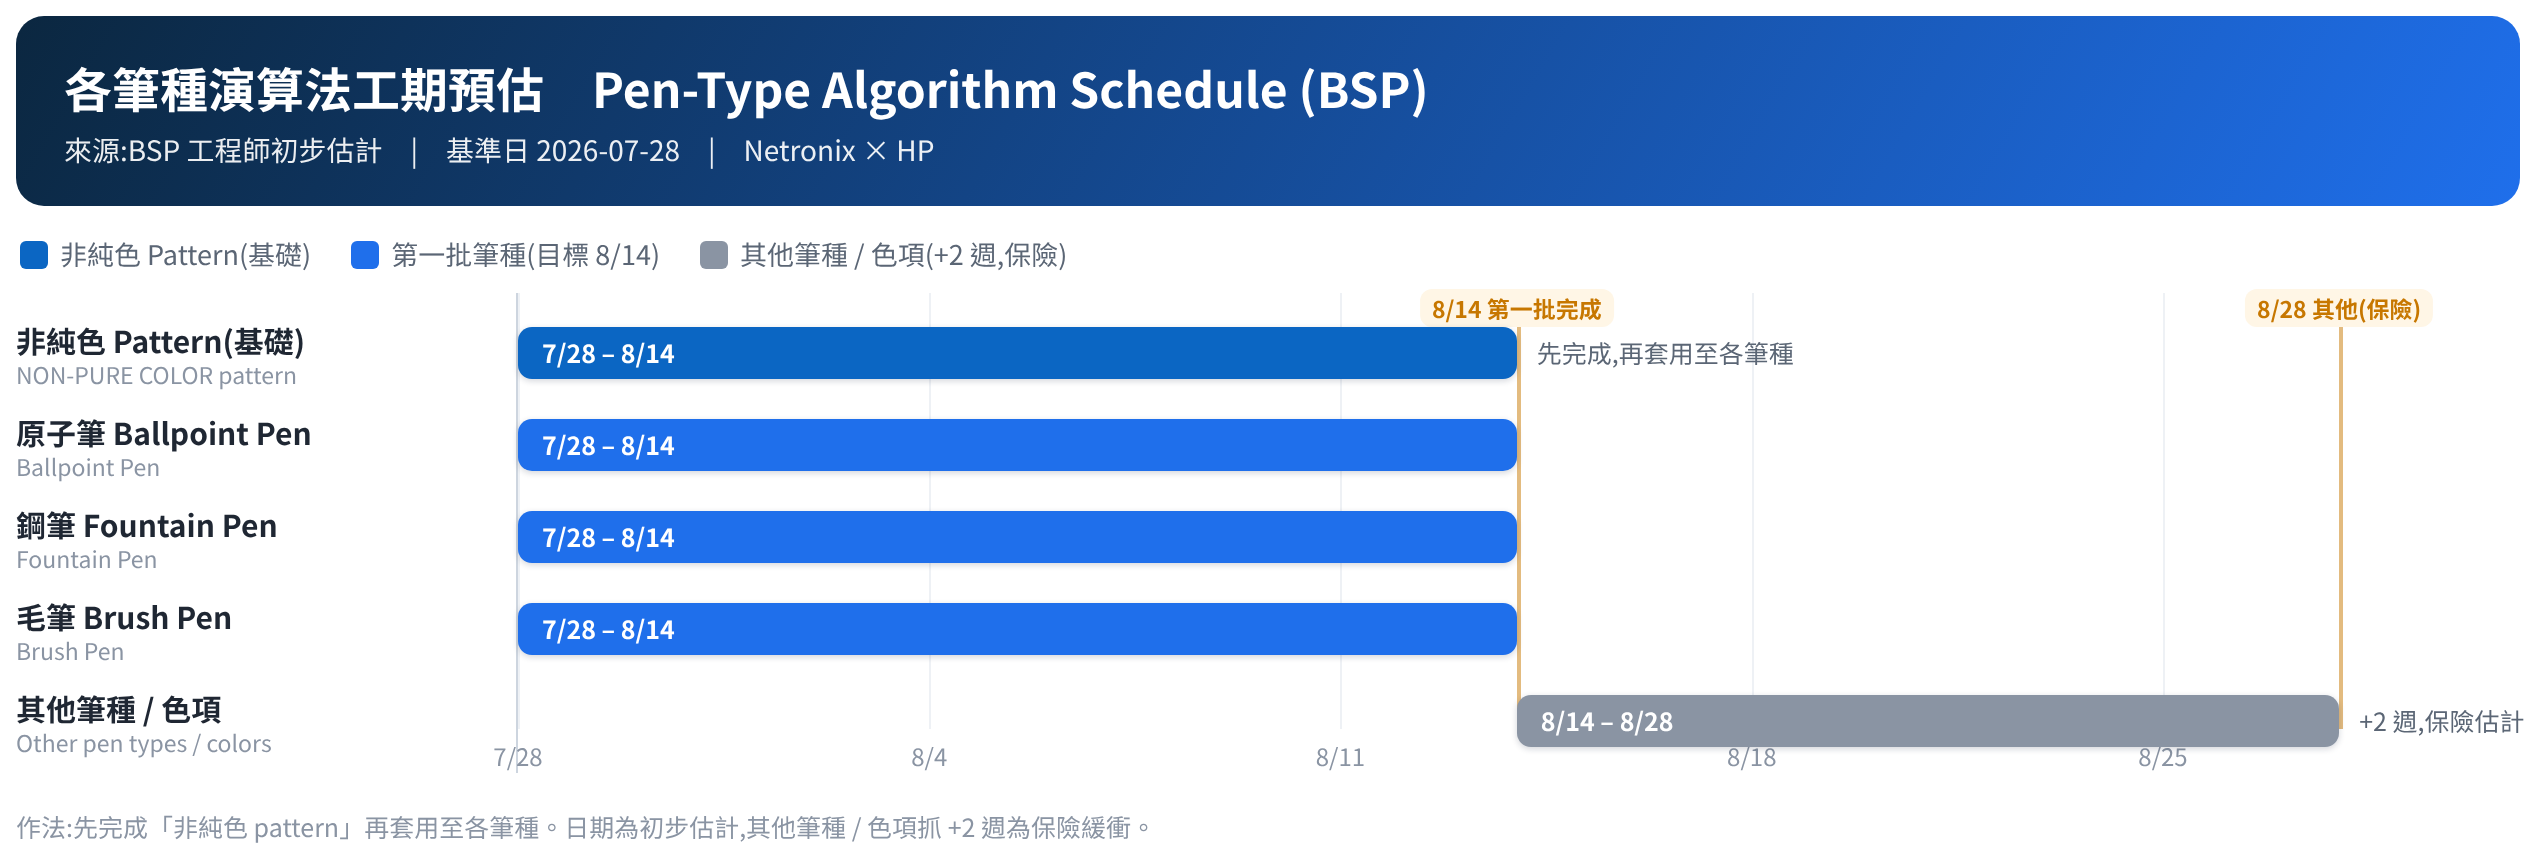
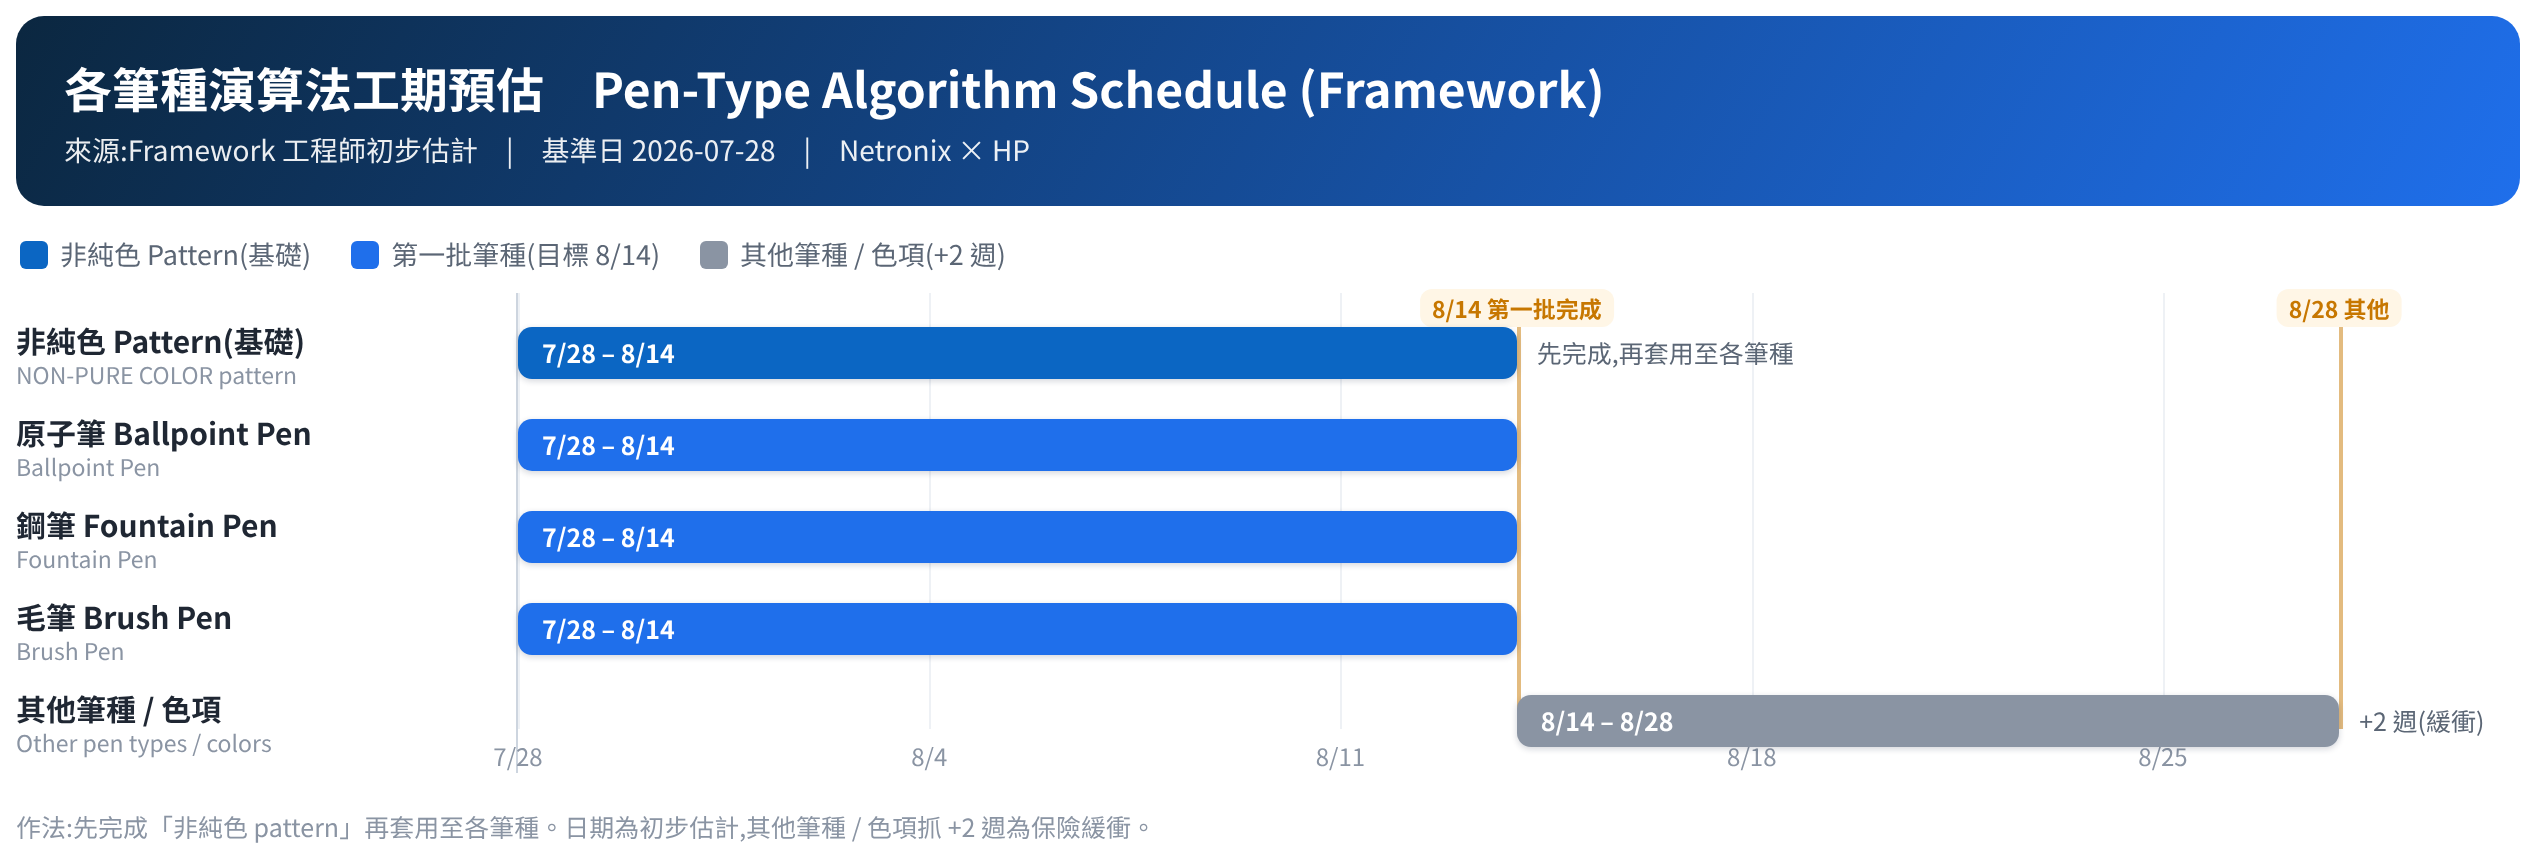
HP 0728 report: BSP->Framework, drop '保險', closeable lightbox, add source-message chat image

diff --git a/HP_HTML/HP_Daily_Report_20260728.html b/HP_HTML/HP_Daily_Report_20260728.html
@@ -45,6 +45,10 @@
   .figwrap{margin:.8em 0}
   .figwrap img{max-width:100%;height:auto;border:1px solid var(--line);border-radius:10px;cursor:zoom-in;display:block}
   .figcap{font-size:12.5px;color:var(--muted);margin-top:.35em}
+  #lb{position:fixed;inset:0;background:rgba(0,0,0,.86);display:none;align-items:center;justify-content:center;z-index:100;cursor:zoom-out}
+  #lb.open{display:flex}
+  #lb img{max-width:94vw;max-height:90vh;border-radius:8px;box-shadow:0 8px 40px rgba(0,0,0,.5)}
+  #lb .x{position:absolute;top:14px;right:22px;color:#fff;font-size:36px;line-height:1;cursor:pointer;font-weight:300;user-select:none}
   code{font-family:Consolas,"Roboto Mono",monospace;font-size:.9em;background:#eef1f5;color:#0b3d66;padding:1px 6px;border-radius:5px}
   .callout{border:1px solid var(--line);border-left:5px solid var(--accent);background:var(--accent-soft);
     padding:13px 17px;border-radius:9px;margin:.9em 0}
@@ -136,7 +140,7 @@
         <b>Netronix 決策:</b>本次<b>隱藏尚未支援的相關 UI</b>,Demo 時不展示(僅展示已完成的項目)。
       </div>
 
-      <h3>各筆種工期預估(BSP 初步估計)</h3>
+      <h3>各筆種工期預估(Framework 初步估計)</h3>
       <p class="muted">回覆 HP 詢問。作法:<b>先完成非純色 pattern,再套用至各筆種</b>。</p>
       <table class="sched">
         <thead><tr><th>項目</th><th>說明</th><th>預估完成</th></tr></thead>
@@ -145,10 +149,11 @@
           <tr><td>原子筆 Ballpoint Pen</td><td>第一批</td><td class="eta">8/14</td></tr>
           <tr><td>鋼筆 Fountain Pen</td><td>第一批</td><td class="eta">8/14</td></tr>
           <tr><td>毛筆 Brush Pen</td><td>第一批</td><td class="eta">8/14</td></tr>
-          <tr><td>其他筆種 / 色項</td><td>+2 週,保險估計</td><td class="eta soft">~8/28</td></tr>
+          <tr><td>其他筆種 / 色項</td><td>+2 週(緩衝)</td><td class="eta soft">~8/28</td></tr>
         </tbody>
       </table>
-      <div class="figwrap"><a href="aDraw_pen_schedule.png" target="_blank" rel="noopener"><img src="aDraw_pen_schedule.png" alt="各筆種工期甘特圖"></a><div class="figcap">圖:各筆種工期預估甘特圖(BSP 初步估計,基準日 2026-07-28)。點圖可放大。</div></div>
+      <div class="figwrap"><img src="aDraw_pen_schedule.png" alt="各筆種工期甘特圖" onclick="zoom(this.src)"><div class="figcap">圖 1:各筆種工期預估甘特圖(Framework 初步估計,基準日 2026-07-28)。點圖可放大,按 ESC 或點任意處關閉。</div></div>
+      <div class="figwrap"><img src="aDraw_pen_schedule_chat.png" alt="來源訊息(補上日期)" onclick="zoom(this.src)"><div class="figcap">圖 2:來源訊息整理(Framework 工程師 Damon Lin,已補上日期)。</div></div>
     </section>
 
     <section>
@@ -246,7 +251,7 @@
         <b>Netronix decision:</b> hide the not-yet-supported UI for this build and skip it in the demo (show only the completed items).
       </div>
 
-      <h3>Pen-Type Schedule Estimate (BSP, preliminary)</h3>
+      <h3>Pen-Type Schedule Estimate (Framework, preliminary)</h3>
       <p class="muted">In reply to HP's question. Approach: <b>finish the non-pure-color pattern first, then apply it to each pen type</b>.</p>
       <table class="sched">
         <thead><tr><th>Item</th><th>Note</th><th>ETA</th></tr></thead>
@@ -255,10 +260,11 @@
           <tr><td>Ballpoint Pen</td><td>first batch</td><td class="eta">8/14</td></tr>
           <tr><td>Fountain Pen</td><td>first batch</td><td class="eta">8/14</td></tr>
           <tr><td>Brush Pen</td><td>first batch</td><td class="eta">8/14</td></tr>
-          <tr><td>Other pen types / colors</td><td>+2 weeks, safety buffer</td><td class="eta soft">~8/28</td></tr>
+          <tr><td>Other pen types / colors</td><td>+2 weeks (buffer)</td><td class="eta soft">~8/28</td></tr>
         </tbody>
       </table>
-      <div class="figwrap"><a href="aDraw_pen_schedule.png" target="_blank" rel="noopener"><img src="aDraw_pen_schedule.png" alt="Pen-type schedule Gantt"></a><div class="figcap">Fig: pen-type schedule Gantt (BSP preliminary estimate, baseline 2026-07-28). Click to enlarge.</div></div>
+      <div class="figwrap"><img src="aDraw_pen_schedule.png" alt="Pen-type schedule Gantt" onclick="zoom(this.src)"><div class="figcap">Fig 1: pen-type schedule Gantt (Framework preliminary estimate, baseline 2026-07-28). Click to enlarge; press ESC or click anywhere to close.</div></div>
+      <div class="figwrap"><img src="aDraw_pen_schedule_chat.png" alt="Source message (dates filled in)" onclick="zoom(this.src)"><div class="figcap">Fig 2: source message, tidied up (Framework engineer Damon Lin, dates filled in).</div></div>
     </section>
 
     <section>
@@ -287,6 +293,7 @@
     <footer>Netronix × HP　-　FluxInk e-ink Note Tablet project　|　2026-07-28</footer>
   </div>
 </div>
+<div id="lb" onclick="unzoom()"><span class="x" onclick="unzoom()">×</span><img alt=""></div>
 <script>
   function setLang(l){
     document.querySelectorAll('[data-lang]').forEach(function(d){d.classList.toggle('show',d.getAttribute('data-lang')===l);});
@@ -295,6 +302,9 @@
     document.getElementById('root').setAttribute('lang',l==='zh'?'zh-Hant':'en');
     window.scrollTo(0,0);
   }
+  function zoom(src){var lb=document.getElementById('lb');lb.querySelector('img').src=src;lb.classList.add('open');}
+  function unzoom(){document.getElementById('lb').classList.remove('open');}
+  document.addEventListener('keydown',function(e){if(e.key==='Escape')unzoom();});
 </script>
 </body>
 </html>
